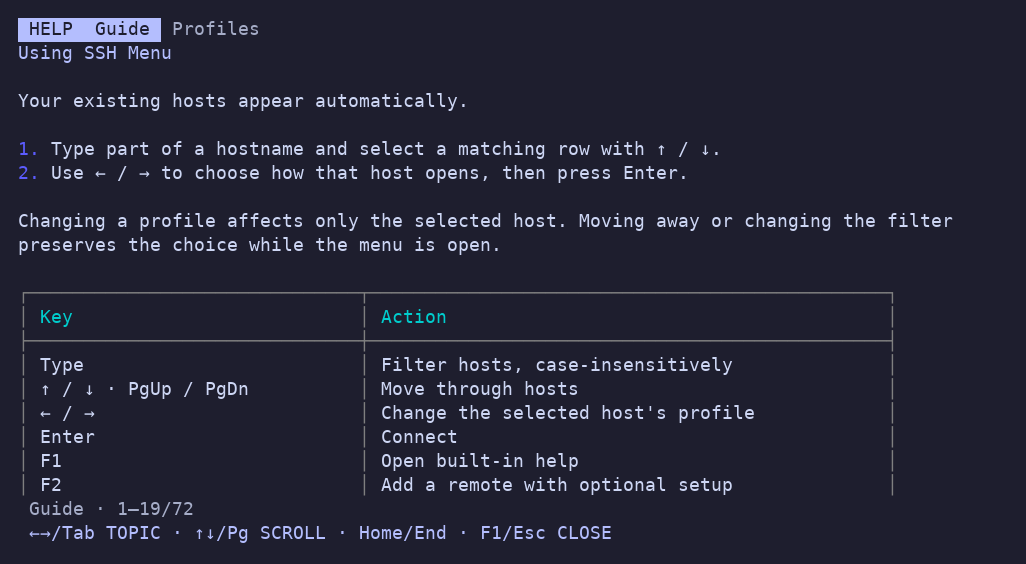
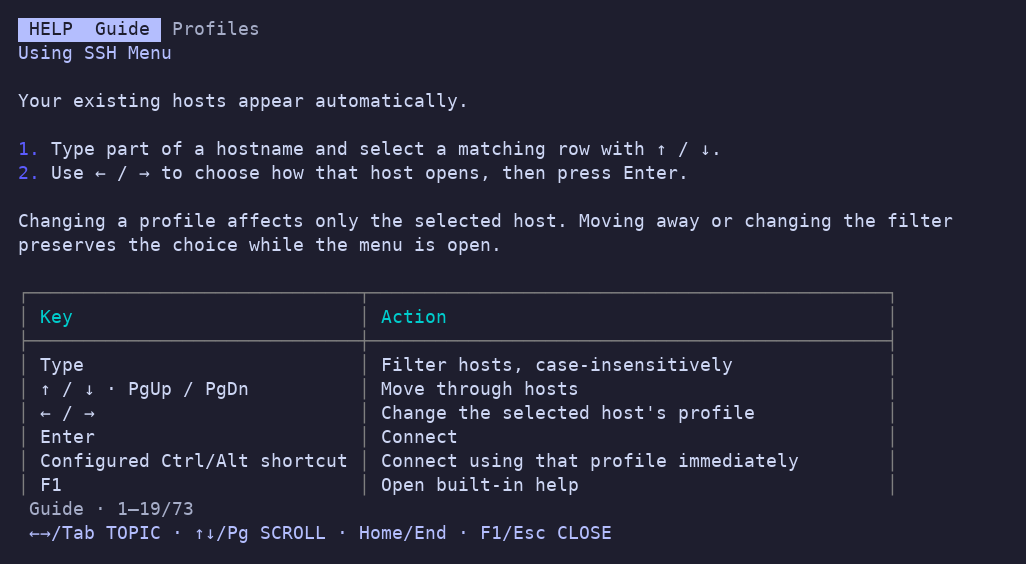
Add validated Ctrl and Alt shortcuts for launching profiles

Changed region(s): [[0.3743, 0.7837, 0.7797, 0.8741], [0.0312, 0.7837, 0.3431, 0.844]]

diff --git a/src/shortcut.rs b/src/shortcut.rs
@@ -1,0 +1,125 @@
+use crossterm::event::{KeyCode, KeyEvent, KeyModifiers};
+use serde::Deserialize;
+use std::fmt;
+
+#[derive(Clone, Debug, Deserialize, PartialEq, Eq, Hash)]
+#[serde(try_from = "String")]
+pub struct Shortcut {
+    letter: char,
+    modifiers: KeyModifiers,
+}
+
+impl TryFrom<String> for Shortcut {
+    type Error = String;
+
+    fn try_from(value: String) -> Result<Self, Self::Error> {
+        let invalid = || {
+            format!(
+                "invalid profile key {value:?}: use Ctrl+letter, Alt+letter, or Ctrl+Alt+letter"
+            )
+        };
+        let normalized = value.trim().to_ascii_lowercase();
+        let mut parts: Vec<_> = normalized.split('+').map(str::trim).collect();
+        let letter = parts.pop().ok_or_else(invalid)?;
+        if letter.len() != 1 || !letter.as_bytes()[0].is_ascii_alphabetic() {
+            return Err(invalid());
+        }
+        let mut modifiers = KeyModifiers::NONE;
+        for part in parts {
+            let modifier = match part {
+                "ctrl" => KeyModifiers::CONTROL,
+                "alt" => KeyModifiers::ALT,
+                _ => return Err(invalid()),
+            };
+            if modifiers.contains(modifier) {
+                return Err(invalid());
+            }
+            modifiers.insert(modifier);
+        }
+        if modifiers.is_empty() {
+            return Err(invalid());
+        }
+        let letter = letter.chars().next().unwrap();
+        // Include terminal aliases (Tab, Enter, Backspace) and flow/suspend keys.
+        if modifiers.contains(KeyModifiers::CONTROL) && "chijmqsz".contains(letter) {
+            return Err(format!(
+                "profile key {value:?} is reserved by the app or terminal"
+            ));
+        }
+        Ok(Self { letter, modifiers })
+    }
+}
+
+impl Shortcut {
+    pub fn matches(&self, event: KeyEvent) -> bool {
+        let KeyCode::Char(letter) = event.code else {
+            return false;
+        };
+        let modifiers = if letter.is_ascii_uppercase() {
+            event.modifiers - KeyModifiers::SHIFT
+        } else {
+            event.modifiers
+        };
+        modifiers == self.modifiers && letter.to_ascii_lowercase() == self.letter
+    }
+}
+
+impl fmt::Display for Shortcut {
+    fn fmt(&self, f: &mut fmt::Formatter<'_>) -> fmt::Result {
+        if self.modifiers.contains(KeyModifiers::CONTROL) {
+            write!(f, "Ctrl+")?;
+        }
+        if self.modifiers.contains(KeyModifiers::ALT) {
+            write!(f, "Alt+")?;
+        }
+        write!(f, "{}", self.letter.to_ascii_uppercase())
+    }
+}
+
+#[cfg(test)]
+mod tests {
+    use super::*;
+
+    #[test]
+    fn modified_letters_match_without_intercepting_typing() {
+        for (text, modifiers) in [
+            ("Alt+M", KeyModifiers::ALT),
+            ("Ctrl+P", KeyModifiers::CONTROL),
+            ("Ctrl+Alt+P", KeyModifiers::CONTROL | KeyModifiers::ALT),
+        ] {
+            let key = Shortcut::try_from(text.to_owned()).unwrap();
+            assert!(key.matches(KeyEvent::new(KeyCode::Char(key.letter), modifiers)));
+            assert!(key.matches(KeyEvent::new(
+                KeyCode::Char(key.letter.to_ascii_uppercase()),
+                modifiers | KeyModifiers::SHIFT
+            )));
+            assert!(!key.matches(KeyEvent::new(KeyCode::Char(key.letter), KeyModifiers::NONE)));
+            assert!(!key.matches(KeyEvent::new(KeyCode::Enter, modifiers)));
+        }
+        for text in [
+            "M",
+            "F1",
+            "Ctrl+F1",
+            "Alt+Enter",
+            "Shift+M",
+            "Ctrl+Ctrl+P",
+            "Ctrl+",
+            "Ctrl+é",
+            "Ctrl+Q",
+            "Ctrl+C",
+            "Ctrl+H",
+            "Ctrl+I",
+            "Ctrl+J",
+            "Ctrl+M",
+            "Ctrl+S",
+            "Ctrl+Z",
+            "Ctrl+Alt+C",
+        ] {
+            assert!(Shortcut::try_from(text.to_owned()).is_err(), "{text}");
+        }
+        assert_eq!(
+            Shortcut::try_from("alt+ctrl+p".to_owned()).unwrap(),
+            Shortcut::try_from("Ctrl+Alt+P".to_owned()).unwrap()
+        );
+    }
+}

diff --git a/src/main.rs b/src/main.rs
@@ -1,6 +1,7 @@
 mod help;
 mod launch;
 mod new_remote;
+mod shortcut;
 
 use crossterm::{
     cursor::Show,
@@ -260,6 +261,18 @@ fn menu(
 ) -> io::Result<Option<Selection>> {
     let mut query = String::new();
     let mut selection = 0usize;
+    let profile_keys = config
+        .profiles
+        .iter()
+        .filter_map(|profile| {
+            profile
+                .key
+                .as_ref()
+                .map(|key| format!("{key} {}", profile.name))
+        })
+        .collect::<Vec<_>>()
+        .join(" · ");
+    let footer_height = if profile_keys.is_empty() { 1 } else { 2 };
     loop {
         let visible = matching(targets, &query);
         selection = selection.min(visible.len().saturating_sub(1));
@@ -275,7 +288,7 @@ fn menu(
             let areas = Layout::vertical([
                 Constraint::Length(1),
                 Constraint::Min(0),
-                Constraint::Length(1),
+                Constraint::Length(footer_height),
             ])
             .split(frame.area());
             let header = Line::from(vec![
@@ -370,10 +383,34 @@ fn menu(
             } else {
                 Line::from(shortcuts)
             };
-            frame.render_widget(Paragraph::new(footer), areas[2]);
+            let mut lines = Vec::new();
+            if !profile_keys.is_empty() {
+                lines.push(Line::styled(
+                    format!(" {profile_keys}"),
+                    Style::default().fg(theme::PEACH),
+                ));
+            }
+            lines.push(footer);
+            frame.render_widget(Paragraph::new(lines), areas[2]);
         })?;
         if let Event::Key(key) = event::read()? {
             if key.kind != KeyEventKind::Press {
+                continue;
+            }
+            if let Some(profile) = config
+                .profiles
+                .iter()
+                .position(|p| p.key.as_ref().is_some_and(|shortcut| shortcut.matches(key)))
+            {
+                if let Some(i) = visible.get(selection) {
+                    return Ok(Some(Selection {
+                        target: targets[*i].clone(),
+                        profile,
+                        setup: None,
+                        setup_command: None,
+                        new: false,
+                    }));
+                }
                 continue;
             }
             match key.code {
@@ -409,12 +446,22 @@ fn menu(
                 KeyCode::Up => selection = selection.saturating_sub(1),
                 KeyCode::Down => selection = selection.saturating_add(1),
                 KeyCode::PageUp => {
-                    selection = selection
-                        .saturating_sub(terminal.size()?.height.saturating_sub(2).max(1) as usize)
+                    selection = selection.saturating_sub(
+                        terminal
+                            .size()?
+                            .height
+                            .saturating_sub(footer_height + 1)
+                            .max(1) as usize,
+                    )
                 }
                 KeyCode::PageDown => {
-                    selection = selection
-                        .saturating_add(terminal.size()?.height.saturating_sub(2).max(1) as usize)
+                    selection = selection.saturating_add(
+                        terminal
+                            .size()?
+                            .height
+                            .saturating_sub(footer_height + 1)
+                            .max(1) as usize,
+                    )
                 }
                 KeyCode::Left => {
                     if let Some(i) = visible.get(selection) {

diff --git a/src/launch.rs b/src/launch.rs
@@ -159,6 +159,8 @@ impl Input {
 pub struct Profile {
     pub name: String,
     #[serde(default)]
+    pub key: Option<crate::shortcut::Shortcut>,
+    #[serde(default)]
     pub available_command: Option<String>,
     pub command: String,
     #[serde(default)]
@@ -417,6 +419,17 @@ impl Config {
             return Err(invalid(
                 "inputs are supported only in configuration_scripts",
             ));
+        }
+        if config.configuration_scripts.iter().any(|p| p.key.is_some()) {
+            return Err(invalid("key is supported only in launch profiles"));
+        }
+        let mut keys = HashSet::new();
+        for profile in &config.profiles {
+            if let Some(key) = &profile.key
+                && !keys.insert(key)
+            {
+                return Err(invalid(format!("duplicate profile key: {key}")));
+            }
         }
         for group in [&config.profiles, &config.configuration_scripts] {
             let mut names = HashSet::new();
@@ -835,6 +848,20 @@ command: printf '%s' '{"options":["one","two"],"default":"two","description":"Ge
         fs::remove_file(home.join(".ssh/id_work's key")).unwrap();
         assert!(input.resolve().is_err());
         fs::remove_dir_all(home).unwrap();
+    }
+
+    #[test]
+    fn rejects_conflicting_or_misplaced_profile_keys() {
+        assert!(Config::parse("default: A\nprofiles: [{name: A, command: 'ssh %h', key: Alt+M}, {name: B, command: 'mosh %h', key: alt+m, available_command: 'exit 1'}]").is_err());
+        assert!(Config::parse("default: A\nprofiles: [{name: A, command: 'ssh %h'}]\nconfiguration_scripts: [{name: Setup, command: 'true', key: Alt+M}]").is_err());
+        for key in ["M", "Ctrl+Q", "Alt+Enter", "Ctrl+Alt+H"] {
+            assert!(
+                Config::parse(&format!(
+                    "default: A\nprofiles: [{{name: A, command: 'ssh %h', key: '{key}'}}]"
+                ))
+                .is_err()
+            );
+        }
     }
 
     #[test]

diff --git a/tests/terminal.py b/tests/terminal.py
@@ -345,4 +345,31 @@ configuration_scripts:
     assert result.returncode != 0 and b"no launch profiles are available" in result.stderr
     assert b"\x1b[?1049h" not in result.stdout
     config_file.write_text(original_config)
+    config_file.write_text("""default: SSH
+profiles:
+  - {name: SSH, key: Ctrl+P, command: 'ssh -- %h'}
+  - {name: Mosh, key: Alt+M, command: 'mosh -- %h'}
+  - {name: Custom, key: Ctrl+Alt+X, command: 'custom-connect %h'}
+""")
+    (root / ".bash_history").write_text("ssh alpha\n")
+    for shortcut, program, arguments in [
+        (b"\x1bm", "mosh", ["--", "alpha"]),
+        (b"\x10", "ssh", ["--", "alpha"]),
+        (b"\x1b\x18", "custom-connect", ["alpha"]),
+    ]:
+        session([b"alpha", shortcut])
+        command = (root / "command").read_text().splitlines()
+        assert command[0].endswith('/' + program) and command[1:] == arguments, command
+    # The directly launched profile is restored on the next ordinary Enter.
+    session([b"alpha", b"\r"])
+    assert (root / "command").read_text().splitlines()[0].endswith('/custom-connect')
+    before = (root / ".bash_history").read_text()
+    (root / "command").unlink()
+    session([b"m", b"\x11"])  # Plain typing must not launch the Alt+M profile.
+    session([b"no-such-host", b"\x1bm", b"\x11"])
+    session([b"\x1bOP", b"\x1bm", b"\x1bOP", b"\x11"])  # Help does not launch profiles.
+    session([b"\x1bOQ", b"\x1bm", b"\x1b", b"\x11"])  # Neither does the dialog.
+    assert not (root / "command").exists()
+    assert (root / ".bash_history").read_text() == before
+    config_file.write_text(original_config)
     print("PASS: discovery, editing, per-entry profiles and history restore, SSH/Mosh/MC/script/custom handoff, config validation, new remotes and setup recipes, embedded help, terminal restoration")

diff --git a/docs/configuration.md b/docs/configuration.md
@@ -10,6 +10,7 @@ profiles:
   - name: SSH
     command: ssh %h
   - name: Mosh
+    key: Alt+M
     available_command: command -v mosh
     command: mosh %h
   - name: MC
@@ -19,6 +20,16 @@ profiles:
 Each profile needs a unique `name` and a `command`; `default` names one of them. Commands run through local `sh -c`, and additional string fields can hold reusable commands or scripts. **Placeholders are shell-escaped automatically—leave them unquoted.**
 
 The example above lets SSH config manage ports. The shipped defaults also handle explicitly entered ports. See the reference below for that template and remote-script quoting.
+
+## Profile shortcuts
+
+Set `key: Alt+M` on a launch profile to connect the selected host with it immediately. Available shortcuts appear above the menu controls. They apply only to the host list, preserve the filter while selecting the target, and do nothing when no host matches. The launched profile is remembered in history as usual. Hidden profiles have no active shortcut.
+
+Use **Ctrl+letter**, **Alt+letter**, or **Ctrl+Alt+letter**, with an ASCII letter A–Z. Names are case-insensitive; `Alt+M` does not require Shift. Plain letters, Shift-only bindings, special keys, and duplicate bindings are rejected. Duplicate checks include unavailable profiles so installing a tool cannot introduce a conflict.
+
+Ctrl+C, Ctrl+H, Ctrl+I, Ctrl+J, Ctrl+M, Ctrl+Q, Ctrl+S, and Ctrl+Z are reserved, including combinations with Alt. These cover existing quit/edit keys, terminal aliases for Backspace/Tab/Enter, flow control, and suspend. Profile shortcuts cannot replace the app's function keys, arrows, Enter, Esc, or editing keys. A terminal or desktop may intercept other combinations; choose another binding if needed.
+
+The shipped bindings are **Alt+S** SSH, **Alt+M** Mosh, **Alt+C** MC, **Alt+B** Bash, and **Alt+Z** Zellij. Existing configs are preserved; add `key` to enable shortcuts there. Setup recipes do not accept `key`.
 
 ## Profile availability
 

diff --git a/README.md b/README.md
@@ -83,7 +83,7 @@ The [documentation index](docs/README.md) covers daily use, installation, config
 
 ![Built-in documentation viewer](screenshot-help.png)
 
-Edit `~/.ssh/ssh-menu-config.yml` to customize launch profiles and setup recipes. Profile `available_command` checks hide unavailable tools at startup. The [commented example](ssh-menu-config.example.yml) contains the shipped defaults.
+Edit `~/.ssh/ssh-menu-config.yml` to customize launch profiles and setup recipes. Profile `available_command` checks hide unavailable tools at startup; `key: Alt+M` adds a direct launch shortcut. The [commented example](ssh-menu-config.example.yml) contains the shipped defaults.
 
 ## License
 

diff --git a/docs/usage.md b/docs/usage.md
@@ -13,6 +13,7 @@ Changing a profile affects only the selected host. Moving away or changing the f
 | ↑ / ↓ · PgUp / PgDn | Move through hosts |
 | ← / → | Change the selected host's profile |
 | Enter | Connect |
+| Configured Ctrl/Alt shortcut | Connect using that profile immediately |
 | F1 | Open built-in help |
 | F2 | Add a remote with optional setup |
 | F8 | Toggle plain SSH / Mosh for the selected host |
